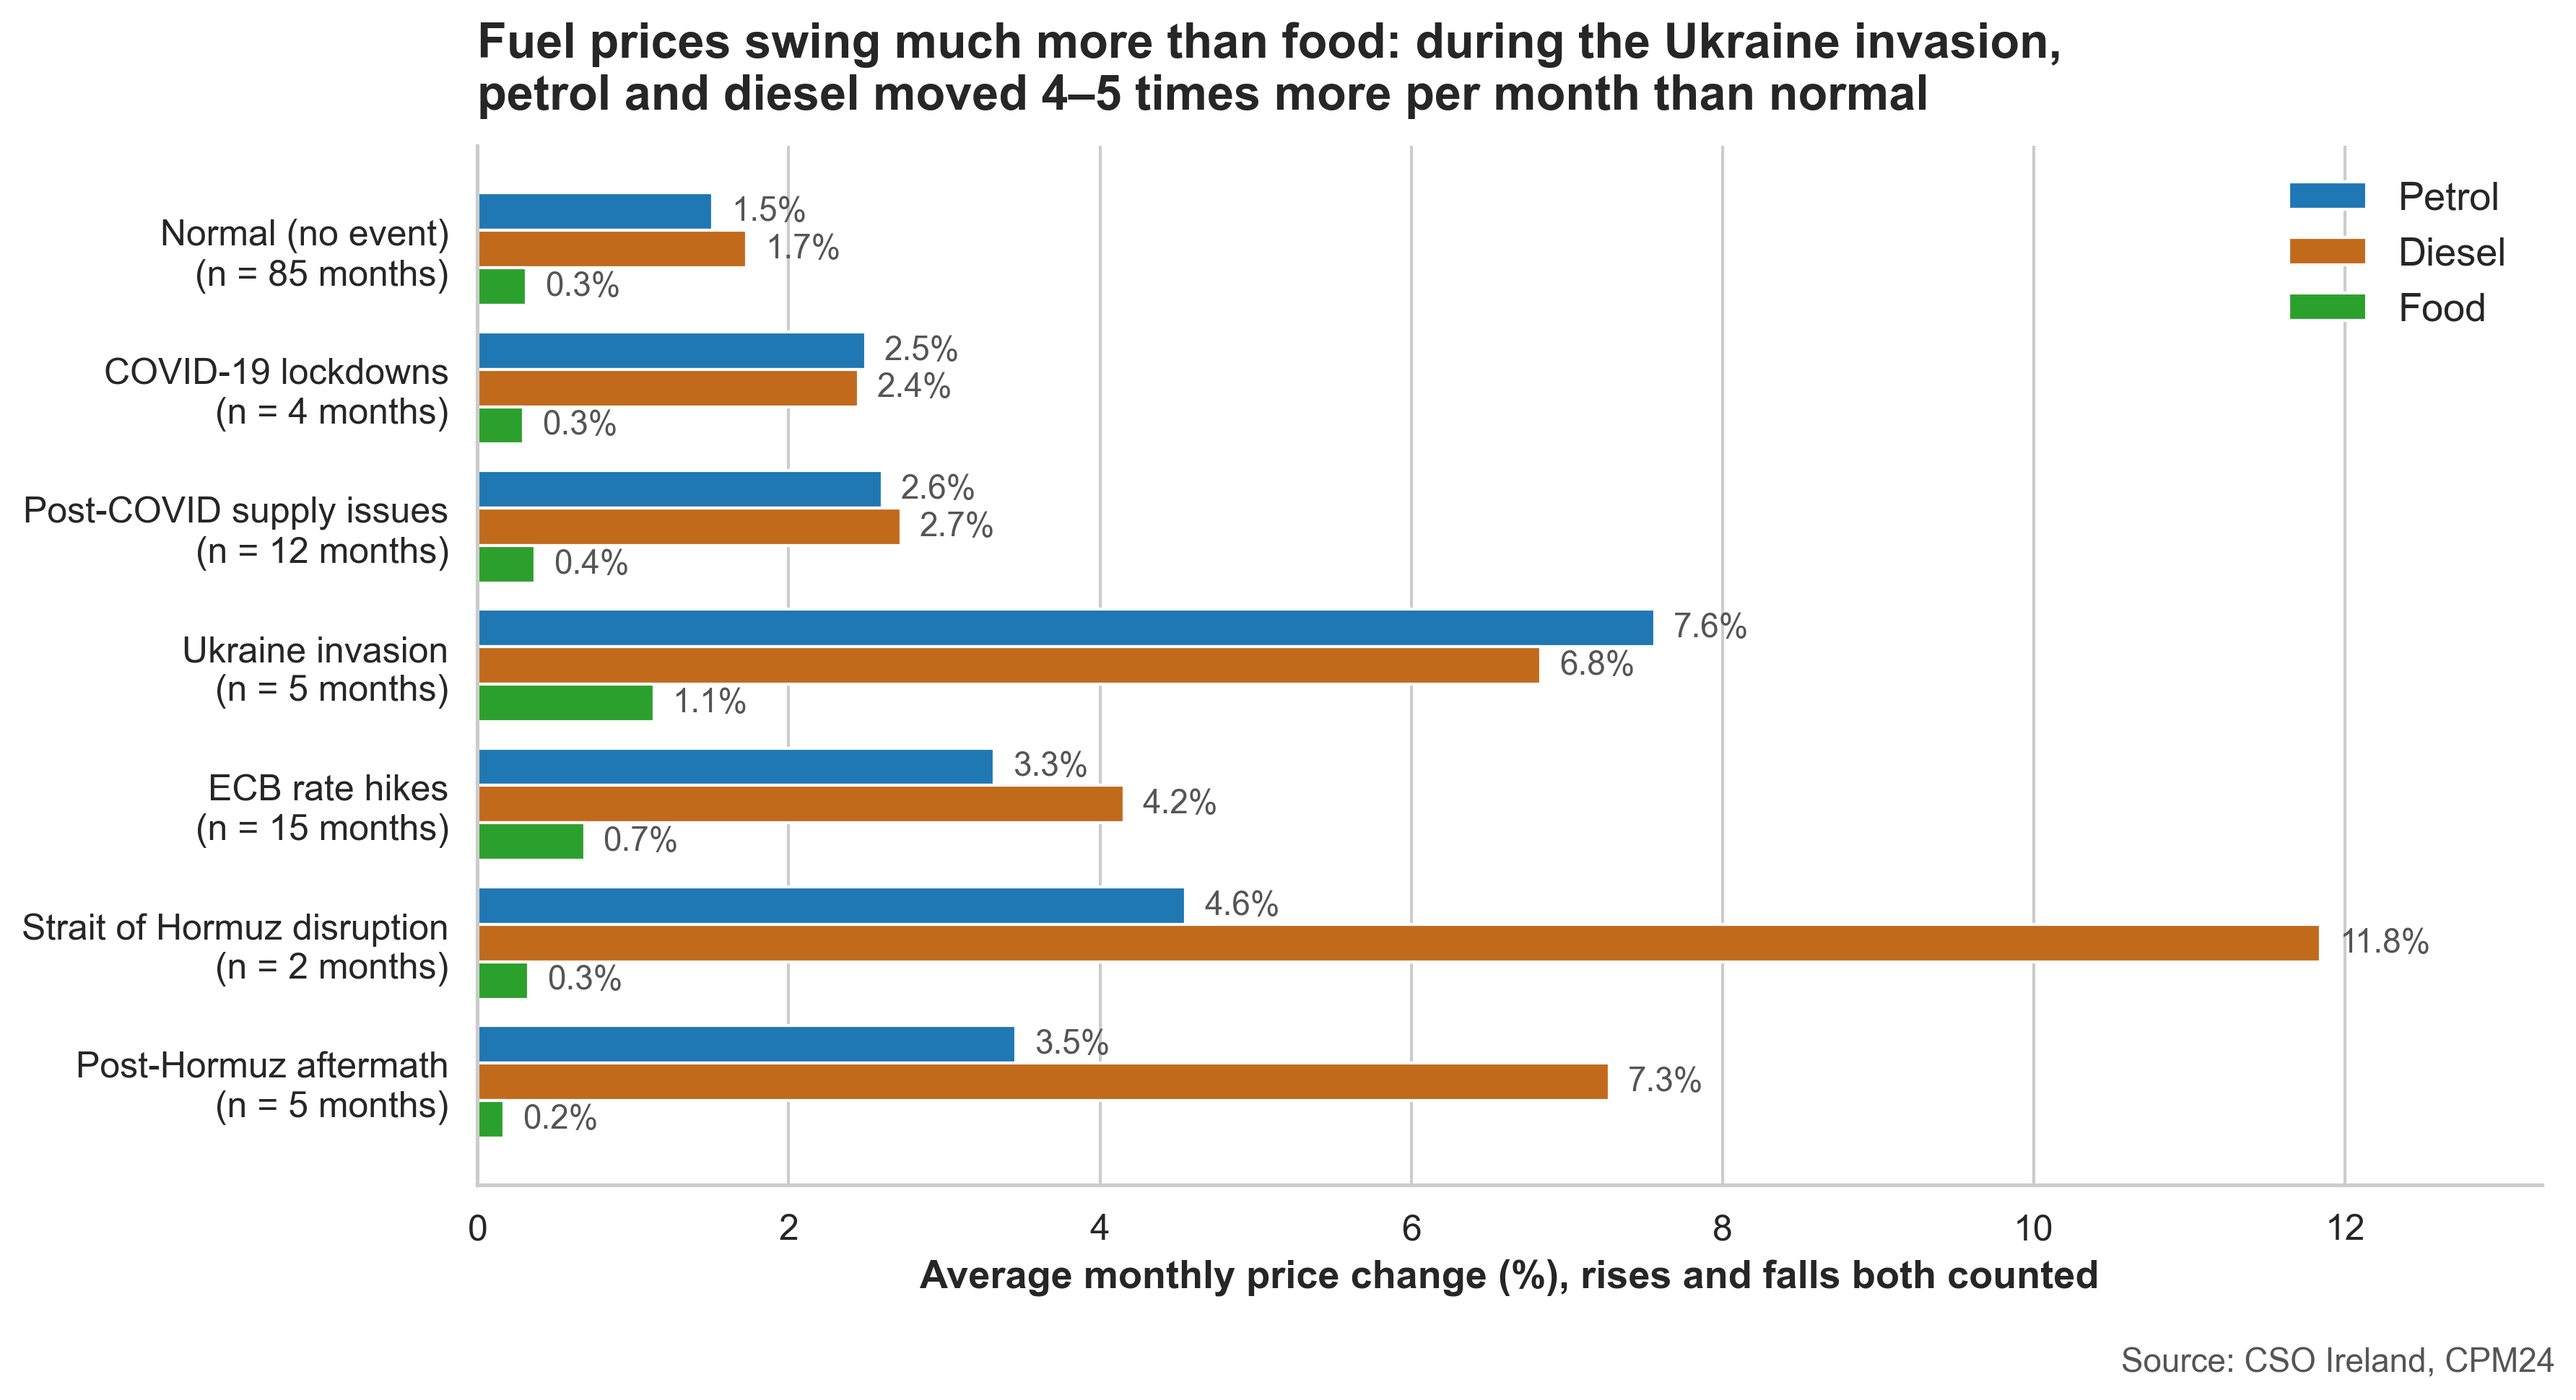
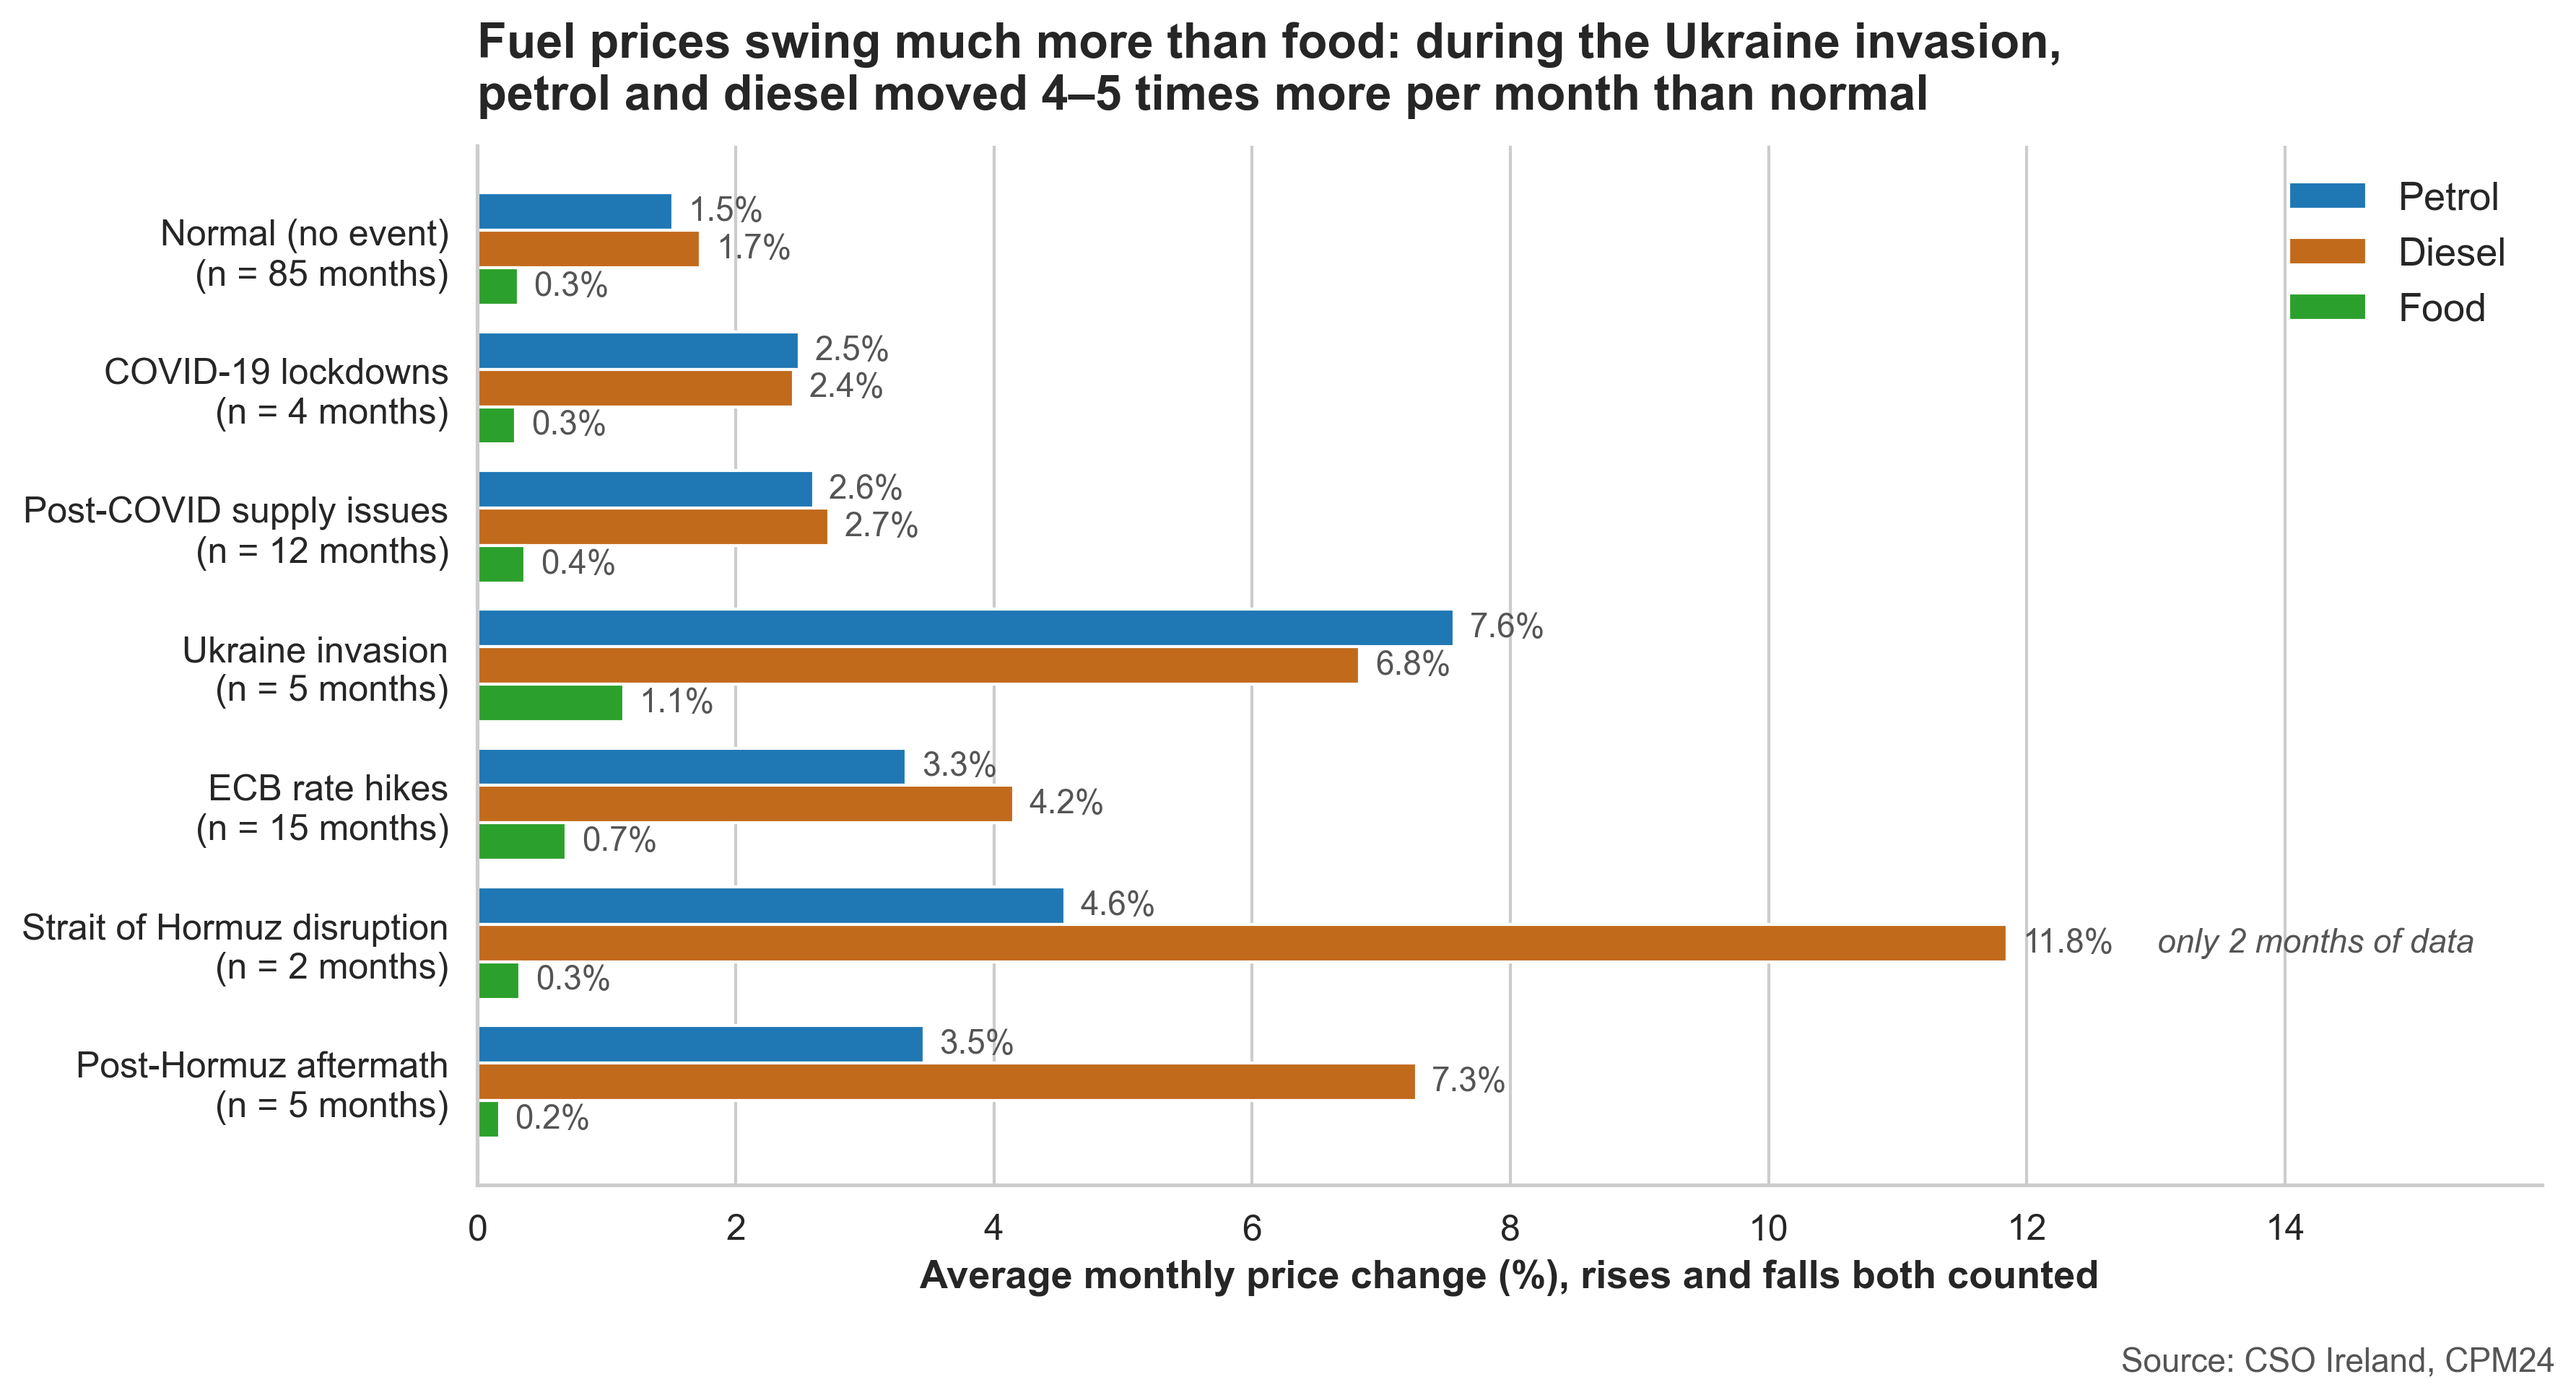
Update README main message and refresh two charts
- README: replace the main message with the revised association-only sentence
- images/final_2: add "only 2 months of data" note to the Hormuz diesel bar
- images/grocery_groups_perishable_vs_shelf_stable: update source line to CPM12

diff --git a/README.md b/README.md
@@ -51,7 +51,7 @@ Both datasets are monthly and have no missing values. The grocery item data runs
 
 ## Key Findings
 
-**Main message:** In Ireland, food prices tend to rise in the months after big fuel price jumps, but they move far less than fuel and have not come back down when fuel got cheaper. The link is strongest about 9–12 months later, and it mainly comes from the 2021–23 price surge.
+**Main message:** In Ireland, food price inflation tended to follow fuel price inflation by about 9–12 months, mainly during the 2021–23 price surge, and food prices stayed high after fuel prices fell.
 
 1. **The big picture:** Fuel prices spiked twice: petrol peaked at 125.5 in June 2022 and diesel reached its highest level, 126.2, in April 2026 (December 2023 = 100). Food prices rose more slowly, by at most 13.1% in a year (compared with up to 50.8% for diesel), and by September 2026 they were 28.5% above their lowest point in January 2021, close to their highest level.
 2. **Fuel swings, food doesn't:** In normal months, petrol and diesel moved about 1.5–1.7% a month, food about 0.3%. During the Ukraine invasion, petrol moved 7.6% a month (5.0 times normal) and diesel 6.8% (4.0 times normal), while food moved 1.1% a month.
